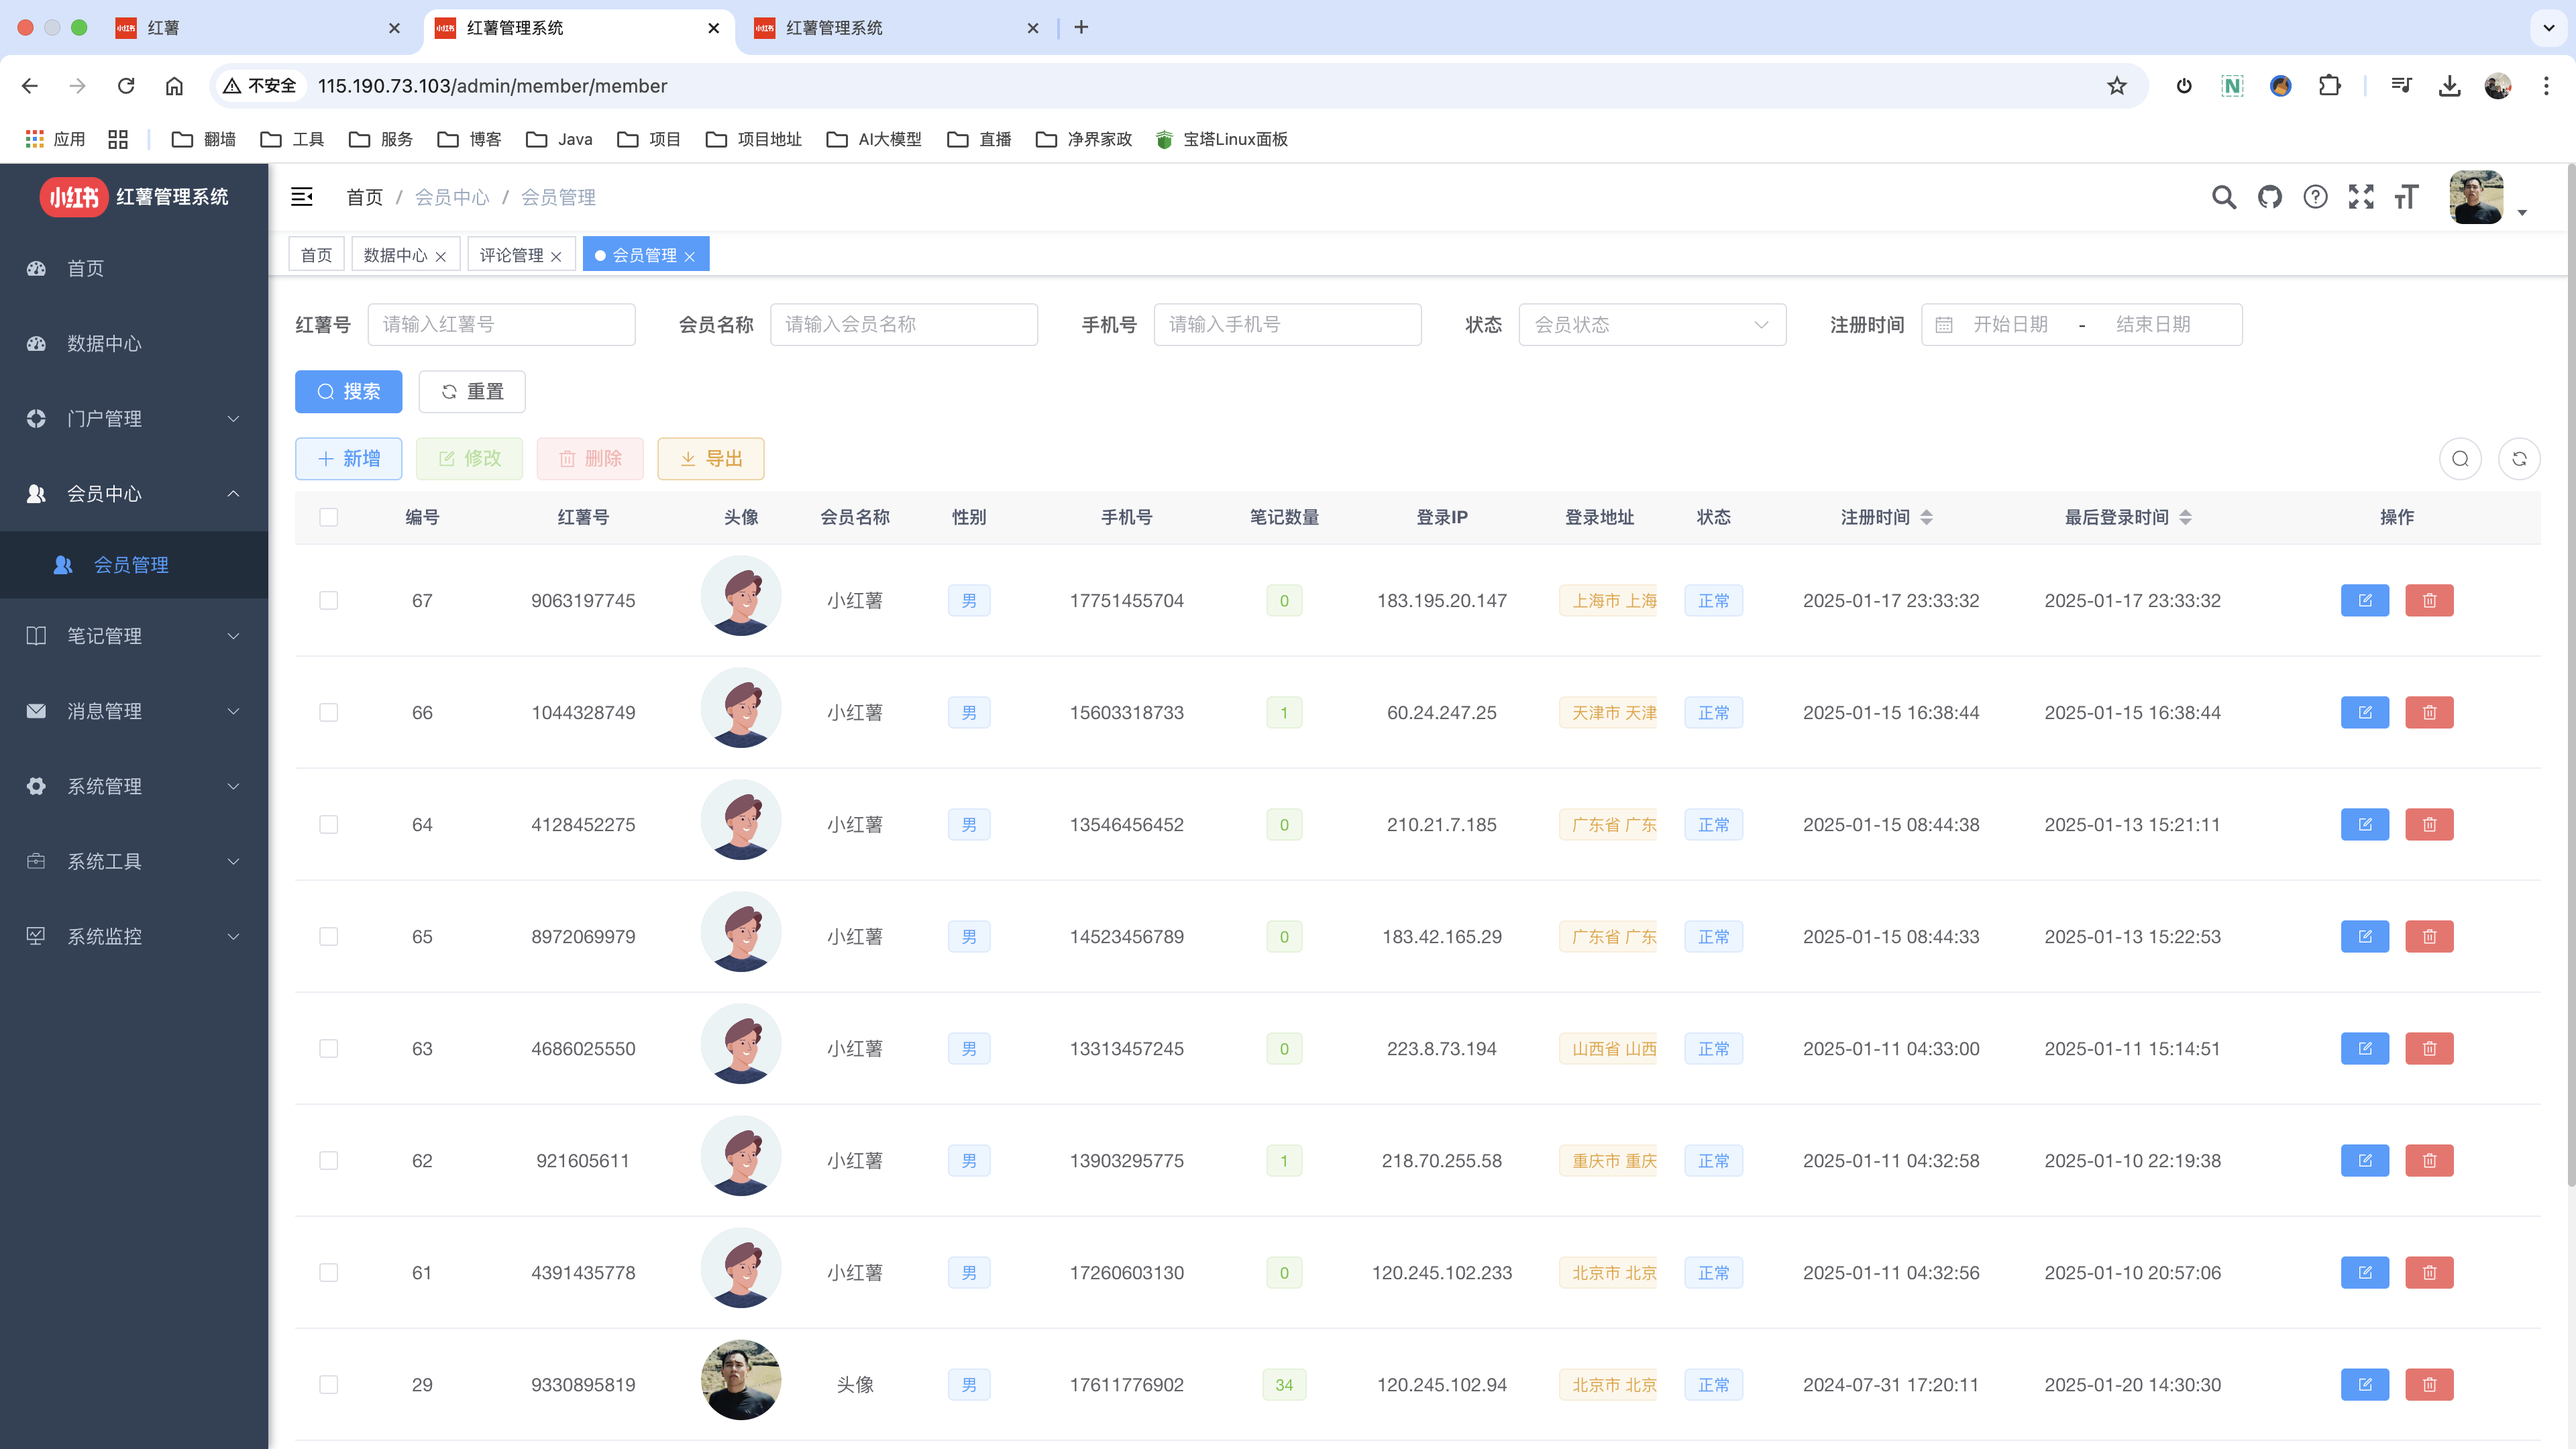
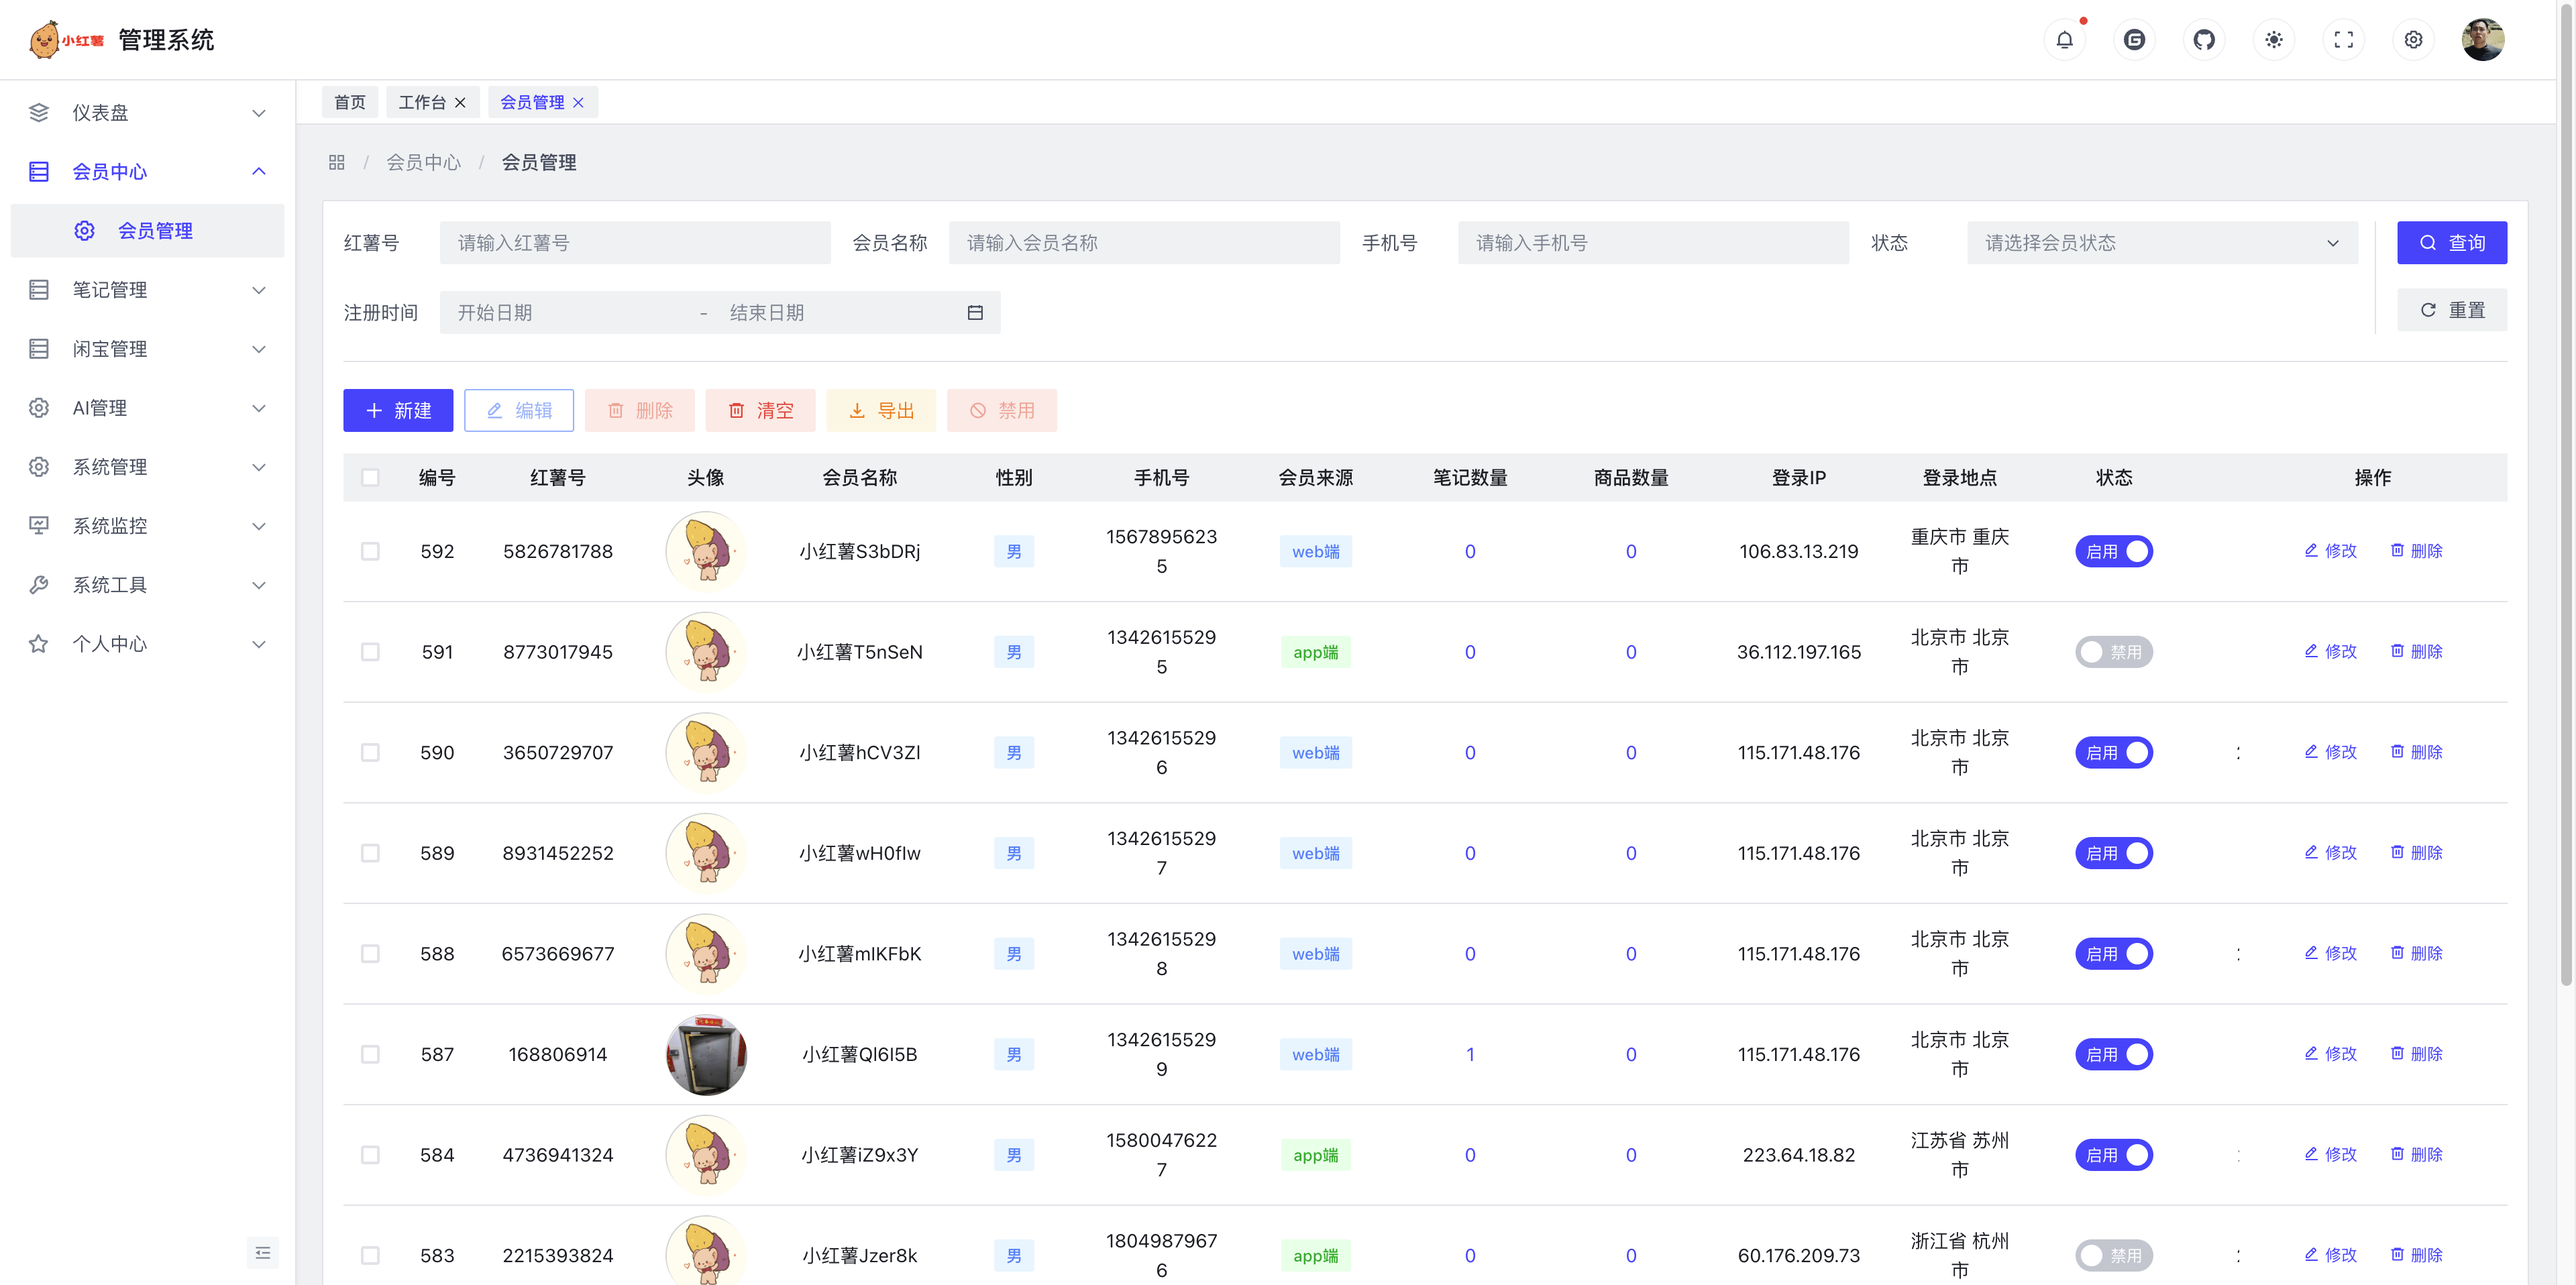
Pro版新增AI大模型

diff --git a/hongshu-server/src/main/java/com/hongshu/HongshuApplication.java b/hongshu-server/src/main/java/com/hongshu/HongshuApplication.java
@@ -14,5 +14,13 @@ public class HongshuApplication {
     public static void main(String[] args) {
         // System.setProperty("spring.devtools.restart.enabled", "false");
         SpringApplication.run(HongshuApplication.class, args);
+        System.out.println("(♥◠‿◠)ﾉﾞ  红薯启动成功   ლ(´ڡ`ლ)ﾞ  \n" +
+                "   __                           __\n" +
+                "  / /_  ____  ____  ____ ______/ /_  __  __\n" +
+                " / __ \\/ __ \\/ __ \\/ __ `/ ___/ __ \\/ / / /\n" +
+                "/ / / / /_/ / / / / /_/ (__  ) / / / /_/ /\n" +
+                "/_/ /_/\\____/_/ /_/\\__, /____/_/ /_/\\__,_/\n" +
+                "                 /____/"
+        );
     }
 }

diff --git a/README.md b/README.md
@@ -4,10 +4,10 @@
 
 <h1 align="center" style="margin: 30px 0 30px; font-weight: bold;">HongShu</h1>
 <p align="center">
-  <b>基于 SpringBoot + Vue 前后端分离的仿小红书项目</b>
+  <b>基于 SpringBoot + Vue + Uniapp + AI 大模型的仿小红书全栈项目</b>
 </p>
 <p align="center">
-  <i>一款高仿小红书的全栈开源项目，支持内容发布、社交互动、即时通讯等核心功能，适合全栈学习与实战。</i>
+  <i>一款高仿小红书的全栈开源项目，支持内容发布、商品交易、社交互动、即时通讯等核心功能，适合全栈学习与实战。</i>
 </p>
 
 <p align="center">
@@ -30,9 +30,7 @@
 
 ## 🚀 项目简介
 
-基于 **SpringBoot + Vue + TypeScript** 前后端分离的**全栈仿小红书系统**，
-1:1 还原小红书页面及核心功能，微服务架构演进版本。  
-涵盖内容发布、社交互动、私信聊天、搜索发现等模块，致力于打造一个功能完善、体验流畅的社交分享平台。
+HongShu - 一款深度融合 AI 大模型能力的现代化社交电商平台，采用 SpringBoot + Vue + Uniapp 前后端分离架构，完整复刻小红书核心功能，并创新性集成多模态 AI 技术，打造智能化的内容创作与社交体验。
 
 ### 📂 项目组成
 
@@ -51,24 +49,26 @@
 - 存储：本地、Minio、七牛云、腾讯云、阿里云
 - 短信：阿里云、腾讯云、云片
 - 地图：高德地图
+- AI大模型：ChatGPT、DeepSeek、豆包、文心一言、通义千问、Kimi、讯飞星火等
 ---
 
 ## 🌟 项目特色
 
-| 功能模块      | 技术实现                     |
-|-----------|--------------------------|
-| 智能推荐      | ElasticSearch + 协同过滤算法   |
-| 即时通讯      | WebSocket + Netty        |
-| 多端存储方案    | Minio/七牛云/阿里云/腾讯云OSS动态切换 |
-| 高并发优化     | Redis + MQ 消息队列          |
-| 安全认证      | 双Token无感刷新机制             |
-| 数据双通道同步机制 | 实时写入机制、定时更新机制            |
-| 社交与电商融入   | 打通商品和社交通道，实现种草分享，链接购买             |
+| 功能模块      | 技术实现                       |
+|-----------|----------------------------|
+| 智能推荐      | ElasticSearch + 协同过滤算法     |
+| 即时通讯      | WebSocket + Netty          |
+| 多端存储方案    | Minio/七牛云/阿里云/腾讯云OSS动态切换   |
+| 高并发优化     | Redis + MQ 消息队列            |
+| 安全认证      | 双Token无感刷新机制               |
+| 数据双通道同步机制 | 实时写入机制、定时更新机制              |
+| 社交与电商融入   | 打通商品和社交通道，实现种草分享，链接购买      |
+| AI大模型交互   | 融入ChatGPT、DeepSeek等主流AI大模型 |
 
 ---
 
 ## 📅 版本演进
-> 💡 点击下方版本号可展开查看详细内容
+> 💡 点击下方版本号可展开查看演进详情
 <details>
 <summary><b>v1.0（Lite版）</b></summary>
 
@@ -93,7 +93,6 @@
 <summary><b>v3.0（Pro版）</b></summary>
 
 - 重构为 springCloud 微服务架构，Nacos 配置中心
-- 新后台管理页面（Arco-Design）
 - 引入高德地图
 - 闲置商城购物功能
 - Netty 重构消息聊天
@@ -101,28 +100,51 @@
 
 </details>
 
+<details>
+<summary><b>v4.0（Pro版）</b></summary>
+
+- 新增AI大模型
+- 上线微信小程序
+- Arco-Design实现新的后台管理系统
+
+</details>
+
+> 👉 [点击获取 Pro 版完整源码](https://www.yuque.com/xiaomage-ippj7/kaoqwn/rqslw69egcbgx7v7?singleDoc#)
+
 ---
 
-## 🌐 演示站（微服务版本-持续更新）
+## 🌐 演示站（微服务版本 - 演进更新）
 
-`小龟速服务器正在奔跑中...`
+> 💡 **温馨提示**: 服务器配置有限，如遇访问缓慢请耐心等待
+> `小龟速服务器正在奔跑中...`
 
-| 端口   | 入口链接 | 二维码                                                   |
-|--------|------|-------------------------------------------------------|
-| Web端  | [点我查看](http://115.190.73.103) | -                                                     |
-| 管理端 | [点我查看](http://115.190.73.103/admin/) | -                                                     |
-| 移动端 | [点我查看](http://115.190.73.103/app/) | 扫码查看👇<br/><img src="doc/images/h5.png" width="120"/> |
+| 端类型 | 访问方式                                                                           | 备注 |
+|--------|--------------------------------------------------------------------------------|------|
+| Web端 | [点击访问](http://115.190.73.103)                                                  | 完整功能体验 |
+| 管理端 | [点击访问](http://115.190.73.103/admin/)                                           | 后台管理系统 |
+| Arco管理端 | [点击访问](http://115.190.73.103/arco-admin/)                                      | 新版管理界面 |
+| 移动端(H5) | [点击访问](http://115.190.73.103/app/) 或 <img src="doc/images/h5.png" width="80"/> | 扫码体验 |
+| 微信小程序 | 体验版 <img src="doc/images/wxamp.png" width="80"/>                               | 扫码体验 |
+---
 
-> 如需`Pro版源码`，可点击👉 [获取源码](https://www.yuque.com/xiaomage-ippj7/kaoqwn/rqslw69egcbgx7v7?singleDoc#) 👈 获取 
->
+## 📞 联系与支持
 
-> 🌟 如有`项目问题`、`项目部署`或`定制需求`可微信联系👇
-> 
-> <img src="doc/images/wx.png" width="200"/>
+<table>
+<tr>
+<td align="center" width="50%">
 
-> 💡 遇到问题？想获取最新动态？可扫码加入临时交流群，我们一起讨论优化~
-> 
-> <img src="doc/images/wx.jpg" width="200"/>
+#### 🤝 项目定制 & 部署
+<img src="doc/images/wx.png" width="200"/>
+<p>微信联系</p>
+</td>
+<td align="center" width="50%">
+
+#### 💬 技术交流
+<img src="doc/images/qq.png" width="200"/>
+<p>QQ交流群</p>
+</td>
+</tr>
+</table>
 
 ---
 
@@ -131,7 +153,7 @@
 - Gitee: [https://gitee.com/Maverick_Ma/hongshu](https://gitee.com/Maverick_Ma/hongshu)
 - Github: [https://github.com/Ma-YongJian/HongShu](https://github.com/Ma-YongJian/HongShu)
 
-> **欢迎 Star & Fork 支持项目！**
+> **欢迎 Star & Fork 支持项目一下！**
 
 ---
 
@@ -150,7 +172,7 @@
 ## 💖 打赏支持
 
 当前服务器配置有限（2核4G），偶尔会有加载缓慢的情况。
-感谢小伙伴们打赏支持❤
+感谢小伙伴们打赏支持用于升级服务器❤
 
 <img src="doc/images/pay.png" width="300"/>
 
@@ -160,14 +182,10 @@
 
 详见 [项目文档](https://www.yuque.com/xiaomage-ippj7/kaoqwn/zdgtgrco82vftbot?singleDoc# )，或参考各子项目 README 进行本地部署体验。
 
----
-
-## ❓ FAQ
-
 - Q: 如何本地运行？
   A: 详见各子项目 README 或 [项目文档](https://www.yuque.com/xiaomage-ippj7/kaoqwn/zdgtgrco82vftbot?singleDoc# )。
 - Q: 依赖环境有哪些？
-  A: JDK 8+、Node 16+、MySQL 8+、Redis 6+ 、Elasticsearch 7+等。
+  A: JDK 8+、Node 16+、MySQL 8+、Redis 7+ 、Elasticsearch 8+等。
 - Q: 数据库脚本在哪里？
   A: 见后端项目 `doc/sql` 目录。
 
@@ -184,33 +202,21 @@
     <td><img src="doc/images/web/web-idle.png" width="500"/></td>
   </tr>
   <tr>
-    <td><img src="doc/images/web/web-search.png" width="500"/></td>
     <td><img src="doc/images/web/web-trends-note.png" width="500"/></td>
     <td><img src="doc/images/web/web-trends-idle.png" width="500"/></td>
+    <td><img src="doc/images/web/web-publish.png" width="500"/></td>
   </tr>
   <tr>
-    <td><img src="doc/images/web/web-publish.png" width="500"/></td>
+    <td><img src="doc/images/web/web-publish-map.png" width="500"/></td>
     <td><img src="doc/images/web/web-publish-img.png" width="500"/></td>
     <td><img src="doc/images/web/web-publish-video.png" width="500"/></td>
   </tr>
   <tr>
-    <td><img src="doc/images/web/web-publish-map.png" width="500"/></td>
-    <td><img src="doc/images/web/web-main-img.png" width="500"/></td>
-    <td><img src="doc/images/web/web-main-video.png" width="500"/></td>
-  </tr>
-  <tr>
-    <td><img src="doc/images/web/web-message-note.png" width="500"/></td>
-    <td><img src="doc/images/web/web-message-idle.png" width="500"/></td>
-    <td><img src="doc/images/web/web-message-comment.png" width="500"/></td>
-  </tr>
-  <tr>
+    <td><img src="doc/images/web/web-message-comment.png" width="500"/></td>  
     <td><img src="doc/images/web/web-message-like.png" width="500"/></td>
-    <td><img src="doc/images/web/web-message-follow.png" width="500"/></td>
     <td><img src="doc/images/web/web-user.png" width="500"/></td>
   </tr>
   <tr>
-    <td><img src="doc/images/web/web-user-mine.png" width="500"/></td>
-    <td><img src="doc/images/web/web-user-idle.png" width="500"/></td>
   </tr>
 </table>
 
@@ -223,13 +229,19 @@
     <td><img src="doc/images/admin/admin-data-map.png" width="500"/></td>
   </tr>
   <tr>
+    <td><img src="doc/images/admin/admin-navbar.png" width="500"/></td>
     <td><img src="doc/images/admin/admin-note.png" width="500"/></td>
     <td><img src="doc/images/admin/admin-idle.png" width="500"/></td>
-    <td><img src="doc/images/admin/admin-member.png" width="500"/></td>
   </tr>
   <tr>
+    <td><img src="doc/images/admin/admin-member.png" width="500"/></td>
     <td><img src="doc/images/admin/admin-album.png" width="500"/></td>
-    <td><img src="doc/images/admin/admin-comment.png" width="500"/></td>
+    <td><img src="doc/images/admin/admin-config.png" width="500"/></td>
+  </tr>
+  <tr>
+    <td><img src="doc/images/admin/admin-gpt.png" width="500"/></td>
+    <td><img src="doc/images/admin/admin-gpt-login.png" width="500"/></td>
+    <td><img src="doc/images/admin/admin-gpt-chat.png" width="500"/></td>
   </tr>
 </table>
 
@@ -262,5 +274,6 @@
 - [若依 RuoYi](https://gitee.com/y_project/RuoYi)
 - [蘑菇博客](https://gitee.com/moxi159753/mogu_blog_v2)
 - [xiaozhao 仿小红书前端](https://gitee.com/xzjsccz/xiaohongshu)
+- [Chat MASTER](https://gitee.com/panday94/chat-master)
 - <img src="./doc/images/qiniu.jpg" width="80" />感谢 [七牛云](https://portal.qiniu.com/signup?utm_source=kaiyuan&utm_media=mogu) 提供的免费云存储和CDN服务
 - <img src="./doc/images/jetbrains.png" width="40" />感谢 [jetbrains](https://www.jetbrains.com/?from=mogu_blog_v2) 提供的开源License
